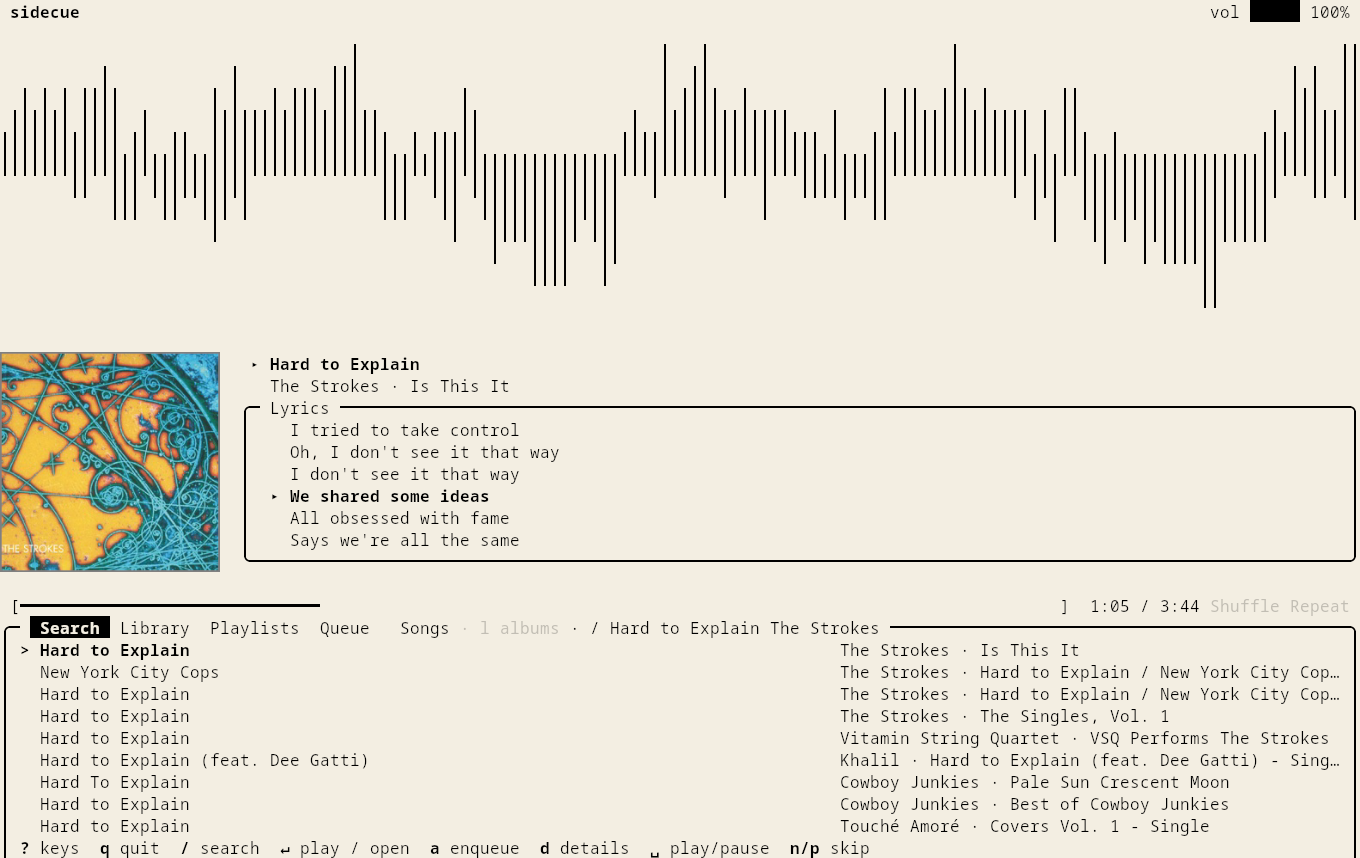
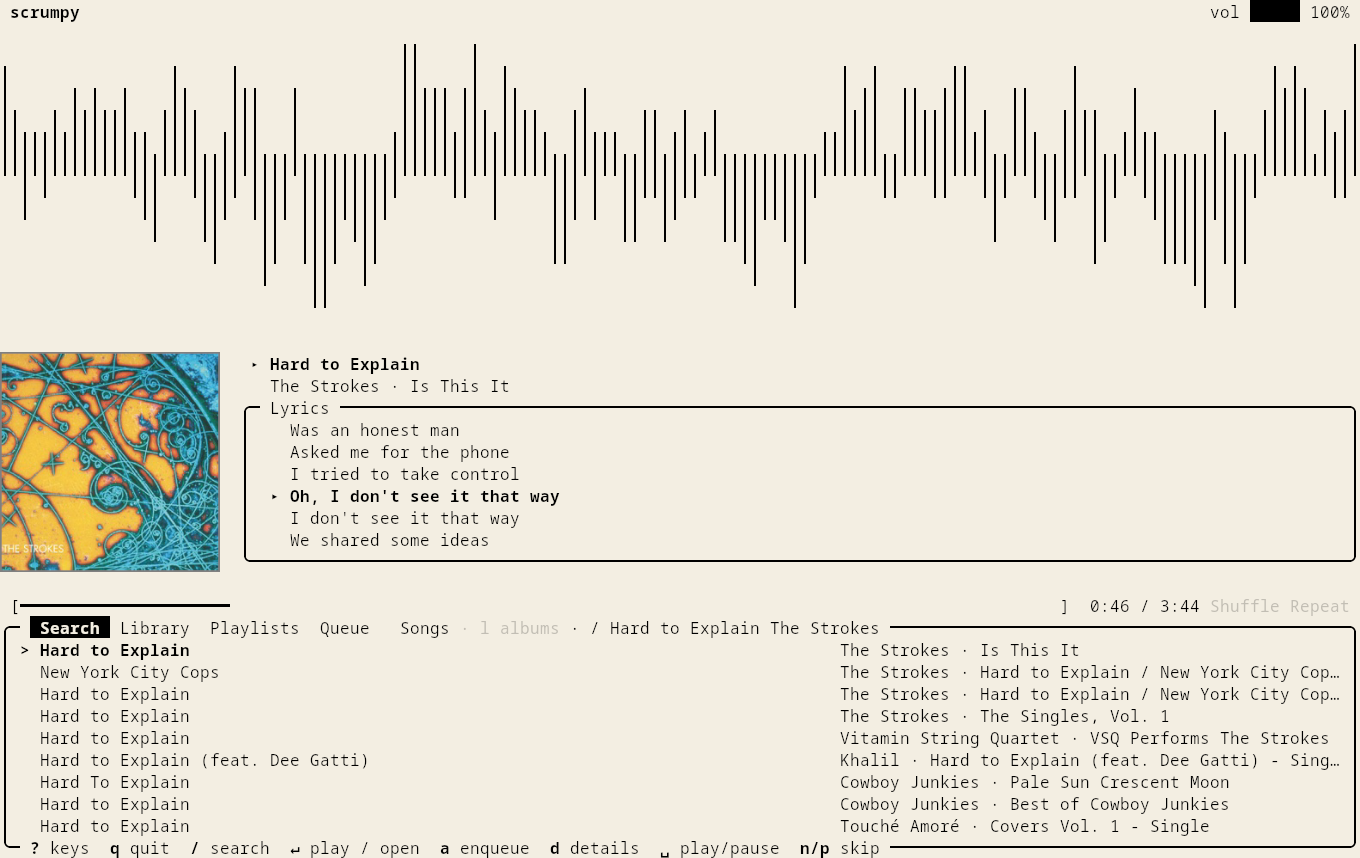
Rename to scrumpy and capture bordered kitty screenshots

diff --git a/release_workflow_test.go b/release_workflow_test.go
@@ -73,7 +73,7 @@ func (m *mockReleaseAPI) handler(t *testing.T) http.Handler {
 			m.uploadHits = append(m.uploadHits, name)
 			w.WriteHeader(http.StatusCreated)
 			fmt.Fprint(w, `{}`)
-		case r.URL.Path == "/api/v1/repos/alex/sidecue/releases" && r.Method == http.MethodPost:
+		case r.URL.Path == "/api/v1/repos/alex/scrumpy/releases" && r.Method == http.MethodPost:
 			m.createHits++
 			w.WriteHeader(http.StatusCreated)
 			fmt.Fprint(w, m.lookupBody)
@@ -148,8 +148,8 @@ func TestPublishReleaseCreatesWhenMissing(t *testing.T) {
 			defer server.Close()
 
 			dir := t.TempDir()
-			amd := filepath.Join(dir, "sidecue-linux-amd64")
-			arm := filepath.Join(dir, "sidecue-linux-arm64")
+			amd := filepath.Join(dir, "scrumpy-linux-amd64")
+			arm := filepath.Join(dir, "scrumpy-linux-arm64")
 			for _, p := range []string{amd, arm} {
 				if err := os.WriteFile(p, []byte("x"), 0o600); err != nil {
 					t.Fatal(err)
@@ -157,7 +157,7 @@ func TestPublishReleaseCreatesWhenMissing(t *testing.T) {
 			}
 
 			cmd := exec.Command("bash", script,
-				server.URL+"/api/v1/repos/alex/sidecue/releases",
+				server.URL+"/api/v1/repos/alex/scrumpy/releases",
 				"test-token",
 				"v1.0.0",
 				amd, arm,
@@ -185,7 +185,7 @@ func TestPublishReleaseCreatesWhenMissing(t *testing.T) {
 			if mock.createHits != 1 {
 				t.Fatalf("expected 1 create, got %d (output: %s)", mock.createHits, out)
 			}
-			want := []string{"sidecue-linux-amd64", "sidecue-linux-arm64"}
+			want := []string{"scrumpy-linux-amd64", "scrumpy-linux-arm64"}
 			if len(mock.uploadHits) != len(want) {
 				t.Fatalf("uploaded %v, want %v (output: %s)", mock.uploadHits, want, out)
 			}
@@ -209,14 +209,14 @@ func TestPublishReleaseReusesExisting(t *testing.T) {
 	mock := &mockReleaseAPI{
 		lookupStatus:   http.StatusOK,
 		lookupBody:     `{"id": 7, "tag_name": "v1.0.0", "assets": []}`,
-		existingAssets: []string{"sidecue-linux-amd64"},
+		existingAssets: []string{"scrumpy-linux-amd64"},
 	}
 	server := httptest.NewServer(mock.handler(t))
 	defer server.Close()
 
 	dir := t.TempDir()
-	amd := filepath.Join(dir, "sidecue-linux-amd64")
-	arm := filepath.Join(dir, "sidecue-linux-arm64")
+	amd := filepath.Join(dir, "scrumpy-linux-amd64")
+	arm := filepath.Join(dir, "scrumpy-linux-arm64")
 	sums := filepath.Join(dir, "SHA256SUMS")
 	for _, p := range []string{amd, arm, sums} {
 		if err := os.WriteFile(p, []byte("x"), 0o600); err != nil {
@@ -225,7 +225,7 @@ func TestPublishReleaseReusesExisting(t *testing.T) {
 	}
 
 	cmd := exec.Command("bash", script,
-		server.URL+"/api/v1/repos/alex/sidecue/releases",
+		server.URL+"/api/v1/repos/alex/scrumpy/releases",
 		"test-token",
 		"v1.0.0",
 		amd, arm, sums,
@@ -244,7 +244,7 @@ func TestPublishReleaseReusesExisting(t *testing.T) {
 	if mock.lookupHits < 2 {
 		t.Fatalf("expected >=2 lookup hits, got %d", mock.lookupHits)
 	}
-	want := []string{"sidecue-linux-arm64", "SHA256SUMS"}
+	want := []string{"scrumpy-linux-arm64", "SHA256SUMS"}
 	if len(mock.uploadHits) != len(want) {
 		t.Fatalf("uploaded %v, want %v (output: %s)", mock.uploadHits, want, out)
 	}
@@ -267,7 +267,7 @@ func TestPublishReleasePropagatesAuthError(t *testing.T) {
 	defer server.Close()
 
 	cmd := exec.Command("bash", script,
-		server.URL+"/api/v1/repos/alex/sidecue/releases",
+		server.URL+"/api/v1/repos/alex/scrumpy/releases",
 		"test-token",
 		"v1.0.0",
 		"/tmp/nonexistent",

diff --git a/main.go b/main.go
@@ -10,23 +10,23 @@ import (
 
 	tea "github.com/charmbracelet/bubbletea"
 
-	"github.com/ajpeders/sidecue/cider"
-	"github.com/ajpeders/sidecue/ui"
-	"github.com/ajpeders/sidecue/viz"
+	"github.com/ajpeders/scrumpy/cider"
+	"github.com/ajpeders/scrumpy/ui"
+	"github.com/ajpeders/scrumpy/viz"
 )
 
 func main() { os.Exit(run(os.Args[1:])) }
 
 func run(args []string) int {
-	flags := flag.NewFlagSet("sidecue", flag.ContinueOnError)
+	flags := flag.NewFlagSet("scrumpy", flag.ContinueOnError)
 	flags.SetOutput(os.Stderr)
 	check := flags.Bool("check", false, "check Cider connectivity and library")
 	showVersion := flags.Bool("version", false, "print the version")
 	flags.Usage = func() {
 		fmt.Fprint(flags.Output(), `Usage:
-  sidecue                          open the player
-  sidecue --check                  check Cider connectivity and library
-  sidecue --version                print the version
+  scrumpy                          open the player
+  scrumpy --check                  check Cider connectivity and library
+  scrumpy --version                print the version
 
 Environment:
   CIDER_TOKEN    Cider API token (default: read from Cider's config)
@@ -44,7 +44,7 @@ Environment:
 		return 2
 	}
 	if *showVersion {
-		fmt.Printf("sidecue %s\n", versionString())
+		fmt.Printf("scrumpy %s\n", versionString())
 		return 0
 	}
 	if *check {
@@ -70,7 +70,7 @@ Environment:
 var version string
 
 // versionString falls back to the module version, which `go install
-// github.com/ajpeders/sidecue@v0.1.0` records, and "(devel)" for local builds.
+// github.com/ajpeders/scrumpy@v0.1.0` records, and "(devel)" for local builds.
 func versionString() string {
 	if version != "" {
 		return version

diff --git a/ui/settings_test.go b/ui/settings_test.go
@@ -68,13 +68,40 @@ func TestThemeSettingsPath(t *testing.T) {
 	if err != nil {
 		t.Fatal(err)
 	}
-	if want := filepath.Join(os.Getenv("XDG_CONFIG_HOME"), "sidecue", "settings.json"); path != want {
+	if want := filepath.Join(os.Getenv("XDG_CONFIG_HOME"), "scrumpy", "settings.json"); path != want {
 		t.Fatalf("path = %q, want %q", path, want)
 	}
 }
 
+func TestThemeSettingsPathMigratesPreviousSettings(t *testing.T) {
+	dir := t.TempDir()
+	t.Setenv("XDG_CONFIG_HOME", dir)
+	legacy := filepath.Join(dir, "sidecue", "settings.json")
+	old := appearanceSettings{Theme: "Paper", Background: false, Visualizer: "waveform", Artwork: true, Lyrics: true}
+	if err := saveAppearance(legacy, old); err != nil {
+		t.Fatal(err)
+	}
+	path, err := themeSettingsPath()
+	if err != nil {
+		t.Fatal(err)
+	}
+	if got, err := loadAppearance(path); err != nil || got != old {
+		t.Fatalf("migrated = %+v, %v; want %+v", got, err, old)
+	}
+	newConfig := appearanceSettings{Theme: "Dark", Background: true, Visualizer: "spectrum", Lyrics: true}
+	if err := saveAppearance(path, newConfig); err != nil {
+		t.Fatal(err)
+	}
+	if _, err := themeSettingsPath(); err != nil {
+		t.Fatal(err)
+	}
+	if got, err := loadAppearance(path); err != nil || got != newConfig {
+		t.Fatalf("new settings overwritten by old: %+v, %v", got, err)
+	}
+}
+
 func TestThemePersistence(t *testing.T) {
-	path := filepath.Join(t.TempDir(), "config", "sidecue", "settings.json")
+	path := filepath.Join(t.TempDir(), "config", "scrumpy", "settings.json")
 	if got, err := loadTheme(path); err != nil || got != "Terminal" {
 		t.Fatalf("missing settings = %q, %v", got, err)
 	}

diff --git a/ui/artwork_test.go b/ui/artwork_test.go
@@ -136,6 +136,32 @@ func TestArtworkCacheRoundTrip(t *testing.T) {
 	}
 }
 
+func TestArtworkCacheMigratesPreviousArtwork(t *testing.T) {
+	dir := t.TempDir()
+	t.Setenv("XDG_CACHE_HOME", dir)
+	var buf bytes.Buffer
+	if err := png.Encode(&buf, image.NewRGBA(image.Rect(0, 0, 32, 32))); err != nil {
+		t.Fatal(err)
+	}
+	legacy := filepath.Join(dir, "sidecue", "artwork", "123.img")
+	if err := os.MkdirAll(filepath.Dir(legacy), 0700); err != nil {
+		t.Fatal(err)
+	}
+	if err := os.WriteFile(legacy, buf.Bytes(), 0600); err != nil {
+		t.Fatal(err)
+	}
+	if cachedArtwork("123") == nil {
+		t.Fatal("previous artwork was not loaded")
+	}
+	path, err := artworkCachePath("123")
+	if err != nil {
+		t.Fatal(err)
+	}
+	if migrated, err := os.ReadFile(path); err != nil || !bytes.Equal(migrated, buf.Bytes()) {
+		t.Fatalf("migrated artwork = %d bytes, %v", len(migrated), err)
+	}
+}
+
 func TestPruneArtworkCacheRemovesOldestFirst(t *testing.T) {
 	dir := t.TempDir()
 	for i, name := range []string{"a.img", "b.img", "c.img"} {

diff --git a/ui/view.go b/ui/view.go
@@ -31,7 +31,10 @@ func (m Model) fixedRows() int {
 	if m.bottomBordered() {
 		footerRows = 2 // the top border and the bottom border carrying the hints
 	}
-	return 1 + lyricsBand + lyricsBreathing + len(m.nowLines()) + btoi(m.artworkShown()) +
+	// The visualizer leaves a blank row above artwork, in addition to the
+	// breathing row between artwork and the seek bar.
+	vizArtGap := btoi(m.artworkShown() && m.vizAvailable())
+	return 1 + lyricsBand + lyricsBreathing + len(m.nowLines()) + btoi(m.artworkShown()) + vizArtGap +
 		len(m.seekLines(w)) + footerRows
 }
 
@@ -306,7 +309,7 @@ func (m Model) headerLine(w int) string {
 		accentStyle.Render(strings.Repeat("█", filled)) +
 		faintStyle.Render(strings.Repeat("░", 5-filled)) +
 		dimStyle.Render(fmt.Sprintf(" %3d%% ", vol))
-	return spread(" "+titleStyle.Render("sidecue"), right, w)
+	return spread(" "+titleStyle.Render("scrumpy"), right, w)
 }
 
 var barBlocks = []string{" ", "▁", "▂", "▃", "▄", "▅", "▆", "▇", "█"}

diff --git a/ui/bottom_border_test.go b/ui/bottom_border_test.go
@@ -81,3 +81,22 @@ func TestBottomBorderCarriesStatusAtNarrowWidth(t *testing.T) {
 		t.Fatalf("status should fit in the lower border: %q", last)
 	}
 }
+
+func TestBottomBorderVisibleWithVisualizerAndKittyArtwork(t *testing.T) {
+	old := artworkMode
+	artworkMode = artKitty
+	t.Cleanup(func() { artworkMode = old })
+	m := New(&fakeClient{})
+	m.width, m.height = 136, 39
+	m.artwork, m.lyricsOn = true, true
+	m.coverCols, m.coverRows = 22, 10
+	m.coverLines = make([]string, 10)
+	m.now = NowPlaying{Title: "Hard to Explain", ArtistName: "The Strokes", Playing: true, Duration: 224}
+	m.viz = make(chan []float64)
+	rows := strings.Split(ansi.Strip(m.View()), "\n")
+	if len(rows) != m.height || !strings.HasPrefix(rows[len(rows)-1], "╰─ ") ||
+		!strings.HasSuffix(rows[len(rows)-1], "─╯") ||
+		!strings.Contains(rows[len(rows)-1], "quit") {
+		t.Fatalf("bottom border clipped with visualizer and artwork: %q", rows[len(rows)-1])
+	}
+}

diff --git a/ui/artwork.go b/ui/artwork.go
@@ -567,7 +567,7 @@ func artworkCacheDir() (string, error) {
 	if err != nil {
 		return "", err
 	}
-	return filepath.Join(dir, "sidecue", "artwork"), nil
+	return filepath.Join(dir, "scrumpy", "artwork"), nil
 }
 
 func artworkCachePath(catalogID string) (string, error) {
@@ -595,6 +595,14 @@ func cachedArtwork(catalogID string) *artwork {
 		return nil
 	}
 	f, err := os.Open(path)
+	legacy := false
+	if os.IsNotExist(err) {
+		// Migrate on demand rather than copying an entire old cache at startup.
+		if dir, dirErr := os.UserCacheDir(); dirErr == nil {
+			f, err = os.Open(filepath.Join(dir, "sidecue", "artwork", cleanID(catalogID)+".img"))
+			legacy = err == nil
+		}
+	}
 	if err != nil {
 		return nil
 	}
@@ -606,6 +614,9 @@ func cachedArtwork(catalogID string) *artwork {
 	img, err := decodeArtwork(raw)
 	if err != nil {
 		return nil
+	}
+	if legacy {
+		_ = saveArtwork(catalogID, raw)
 	}
 	return buildArtwork(img)
 }

diff --git a/ui/settings.go b/ui/settings.go
@@ -89,7 +89,26 @@ func themeSettingsPath() (string, error) {
 	if err != nil {
 		return "", fmt.Errorf("config directory: %w", err)
 	}
-	return filepath.Join(dir, "sidecue", "settings.json"), nil
+	path := filepath.Join(dir, "scrumpy", "settings.json")
+	if _, err := os.Stat(path); err == nil {
+		return path, nil
+	} else if !os.IsNotExist(err) {
+		return "", err
+	}
+	legacy := filepath.Join(dir, "sidecue", "settings.json")
+	if _, err := os.Stat(legacy); os.IsNotExist(err) {
+		return path, nil
+	} else if err != nil {
+		return "", err
+	}
+	config, err := loadAppearance(legacy)
+	if err != nil {
+		return "", fmt.Errorf("read previous settings: %w", err)
+	}
+	if err := saveAppearance(path, config); err != nil {
+		return "", fmt.Errorf("migrate settings: %w", err)
+	}
+	return path, nil
 }
 
 type appearanceSettings struct {

diff --git a/ui/cid33_test.go b/ui/cid33_test.go
@@ -142,7 +142,7 @@ func TestPlayingIndexRefusesDuplicateCurrentID(t *testing.T) {
 }
 
 // TestQueueMarkerHiddenForDuplicateCurrent: with the playing song queued
-// twice and no isCurrent flag from Cider, sidecue can't tell which copy is
+// twice and no isCurrent flag from Cider, scrumpy can't tell which copy is
 // playing, so it must mark neither rather than both (found live, CID-33).
 func TestQueueMarkerHiddenForDuplicateCurrent(t *testing.T) {
 	m := New(&fakeClient{})

diff --git a/main_test.go b/main_test.go
@@ -95,7 +95,7 @@ func TestVersionFlag(t *testing.T) {
 	}
 	buf := make([]byte, 256)
 	n, _ := reader.Read(buf)
-	if got := string(buf[:n]); got != "sidecue v9.9.9\n" {
+	if got := string(buf[:n]); got != "scrumpy v9.9.9\n" {
 		t.Fatalf("got %q", got)
 	}
 }

diff --git a/ui/model.go b/ui/model.go
@@ -13,7 +13,7 @@ import (
 	"time"
 	"unicode/utf8"
 
-	"github.com/ajpeders/sidecue/viz"
+	"github.com/ajpeders/scrumpy/viz"
 	tea "github.com/charmbracelet/bubbletea"
 )
 

diff --git a/ui/rest_test.go b/ui/rest_test.go
@@ -4,7 +4,7 @@ import (
 	"testing"
 	"time"
 
-	"github.com/ajpeders/sidecue/viz"
+	"github.com/ajpeders/scrumpy/viz"
 	tea "github.com/charmbracelet/bubbletea"
 )
 
